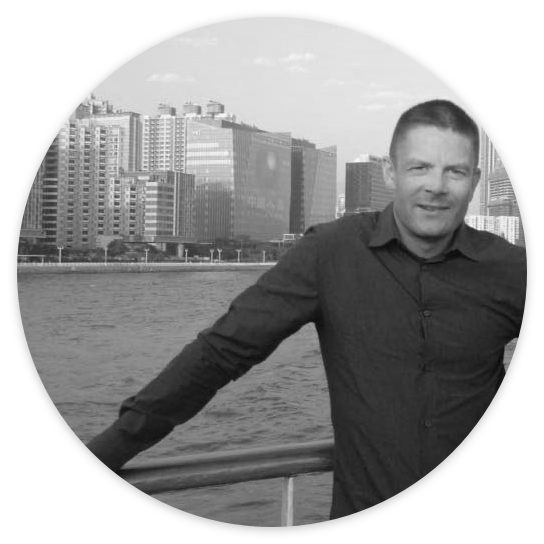
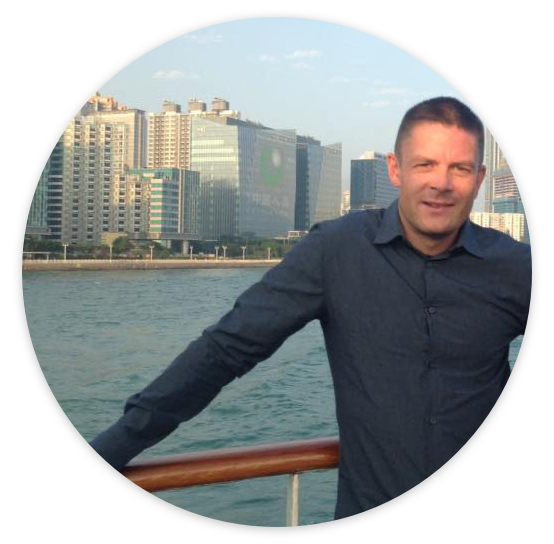
style sheet

diff --git a/index.1.html b/index.1.html
@@ -103,10 +103,8 @@
 <section id="portfolio">
   <div class="container"> 
   <div class="row">
-    <p class="text-center portfolio-header blue-brand" id="portfolio">My Portfolio</p>
-    <p class="text-center portfolio-text">My Portfolio of work can be viewed 
-    by clicking on the sections below</p>
-  
+    <p class="text-center portfolio-header blue-brand" id="portfolio"></p>
+   
   </div> <!-- close row -->
   
   
@@ -192,53 +190,6 @@
      
        </div> <!-- close row -->
        
-       
-       
-       
-       
-       <div class="row">
- 
-      
-     
-     
-     
-     
-           <div class="col-xs-12 col-sm-6 col-md-6  no-gutter">
-     <div class="portfolio">
-     <a href="portfolio/oneday.html">
-     <img src="assets/images/evening_tilted-black.png" style="background-color:#FFF;" class="img-responsive " alt="evening_screen">
-     
-   <div class="work-text-content">
-    <h1>'One Day'</h1>
-    <h2><i>UI Design</i></h2>
-     </div>
-     </a>
-     </div>
-     </div>
-     
-      <div class="col-xs-12 col-sm-6 col-md-6  no-gutter">
-     <div class="portfolio">
-     <a href="portfolio/blackcoffee.html">
-     <img src="assets/images/black_coffee_index.png" style="background-color:#FFF;" class="img-responsive" alt="Black_coffee">
-   
-     <div class="work-text-content">
-    <h1>'DJ Black Coffee'</h1>
-    <h2><i>Front-end Development</i></h2>
-     </div>
-       </a>
-     </div>
-     </div>
-     
-       </div> <!-- close row -->
-    
-    
-   
-      
-  
-    
-      
-   
-   
     </div> <!-- close container -->
     
     
@@ -271,35 +222,30 @@
  
     <div class="row">
      <div class="col-xs-12 col-sm-12 col-md-12 col-lg-6">
-  <img src="assets/images/hongkong_bw.jpg" style="background-color:#FFF;" class="img-responsive border-brand" alt="profile_pic">
+  <img src="assets/images/hongkong_profile.png" style="background-color:#FFF;" class="img-responsive " alt="profile_pic">
   </div>
  
   
   
   
-    <div class="col-xs-12 col-sm-12 col-md-12 col-lg-6">
+    <div class="col-xs-12 col-sm-12 col-md-12 col-lg-6 profile-text-padding">
      
-    <p class="about-text"> I'm an experienced professional and have spent my career to date using data insights to 
-    understand customer behaviours and needs, working for some of 
-    the world's largest multinationals.
+    <p class="about-text"> I'm an experienced professional and have spent my career to date using data to 
+    understand customer behaviours and needs, using these insights to help solve business challenges.
     </P>
-    <p class="about-text"> 
-    Building relationships with stakeholders and problem solving to overcome business challenges are key skills that I have developed
-    during my commercial roles.
-    </p>
-  
+    
 
     <p class="about-text">A life long learner I have recently invested my time understanding the user experience process and 
     obtaining new software skills and abilities in UX and UI.</P>
     
-        <p class="about-text">I now enjoy using insights to design visually
+        <p class="about-text">I now enjoy using user research to design visually
         attractive products that solve problems and improve people's lives.</P>
     
 
-    <p class="about-text">I also have a working knowledge of front-end coding. I can use these skills to work with development
-    teams or to build interactive prototypes.</p>
+    <p class="about-text">When not in front of a computer screen I enjoy travelling,nature, 
+   jogging and health & fitness.</p>
    
-     
+  
    
                  
                     
@@ -310,63 +256,15 @@
 </section>
 
 
-<section id="contact" class="contact">
-  <div class="container"> 
-  <div class="row">
-  <div class="col-xs-12">
-  <p class="text-center contact-header">Let's Talk...</p>
- 
 
-<p class="text-center contact-body visible-lg visible-md">
- If you have a project in mind or are simply interested in finding out more,<br> get in touch and let’s get things moving.   
-</p>
-<p class="text-center contact-body visible-sm visible-xs">
- If you have a project in mind or are simply interested in finding out more, get in touch and let’s get things moving.   
-</p>
-
-
+  
 </div>
 
-
- <div class="col-xs-5 col-xs-offset-1">
-<P class="contact-body visible-lg visible-md">
- <a href="mailto:des@desflaherty.com" class="nounderline email">
- EMAIL: des[at]desflaherty[dot]com 
- </a>
- </P>
- 
-
- 
-<P class="contact-body visible-sm visible-xs">
- <a href="mailto:des@desflaherty.com" class="nounderline email">
- EMAIL:<br>des[at]desflaherty<br>[dot]com
-  </a>
- </P>
- 
- 
-</div>
-
- <div class="col-xs-5 col-xs-offset-1">
-<p class="contact-body visible-lg visible-md ">&nbsp;&nbsp;&nbsp;&nbsp;&nbsp;&nbsp;CALL ME: +353 879482820</p>
-<p class="contact-body visible-sm visible-xs">CALL ME:<br> +353<br> 879482820</p>
-<div class="contact-footer"></div>
-</div>
- 
- 
-
- 
- 
- 
- 
-  </div> <!-- close row -->
-  </div> <!-- close container -->
-</section>
-
-
-		 <footer class="container">
+<section id="contact">
+		 <footer class="container footer">
             
                 <div class="col-md-4">
-                    <h4 class="general-sub contact-m text-center">Copyright &copy; Des Flaherty 2020</h4>
+                    <h4 class="general-sub contact-m text-center grey-link">Copyright &copy; Des Flaherty 2020</h4>
                    
                 </div>
                 <div class="col-md-4">
@@ -380,10 +278,14 @@
                     </ul>
                 </div>
                 </div>
-            <div class="col-md-4"></div>
+            <div class="col-md-4">
+              <h4 class="general-sub contact-m text-center">
+               <a style="text-decoration:none" target="_blank" class="grey-link" href="mailto:des@desflaherty.com">
+             <i class="fa fa-envelope"></i>&nbsp; des@desflaherty.com</h4></a>
+            </div>
         </footer>
 
- 
+ </section>
        
         
         

diff --git a/index.html b/index.html
@@ -39,7 +39,7 @@
          <span class="navbar-brand pointer navbar-left" onclick="location='#home'">
             
 <div class="logo">
-   DES FLAHERTY
+  Des Flaherty
  </div>
    
    
@@ -89,10 +89,7 @@
      <p class="text-center script">I create beautiful products, that people love to use.</p>
   
     </div>
-  <div class="enquire-container">
-    <a href="#portfolio" class="btn btn-lg btn-blue visible-lg visible-md visible-sm" role="button" >View Portfolio</a>
-     <a href="#portfolio" class="btn   btn-blue visible-xs" role="button" >View Portfolio</a>
-  </div>
+  
   </div>
 </section>
 
